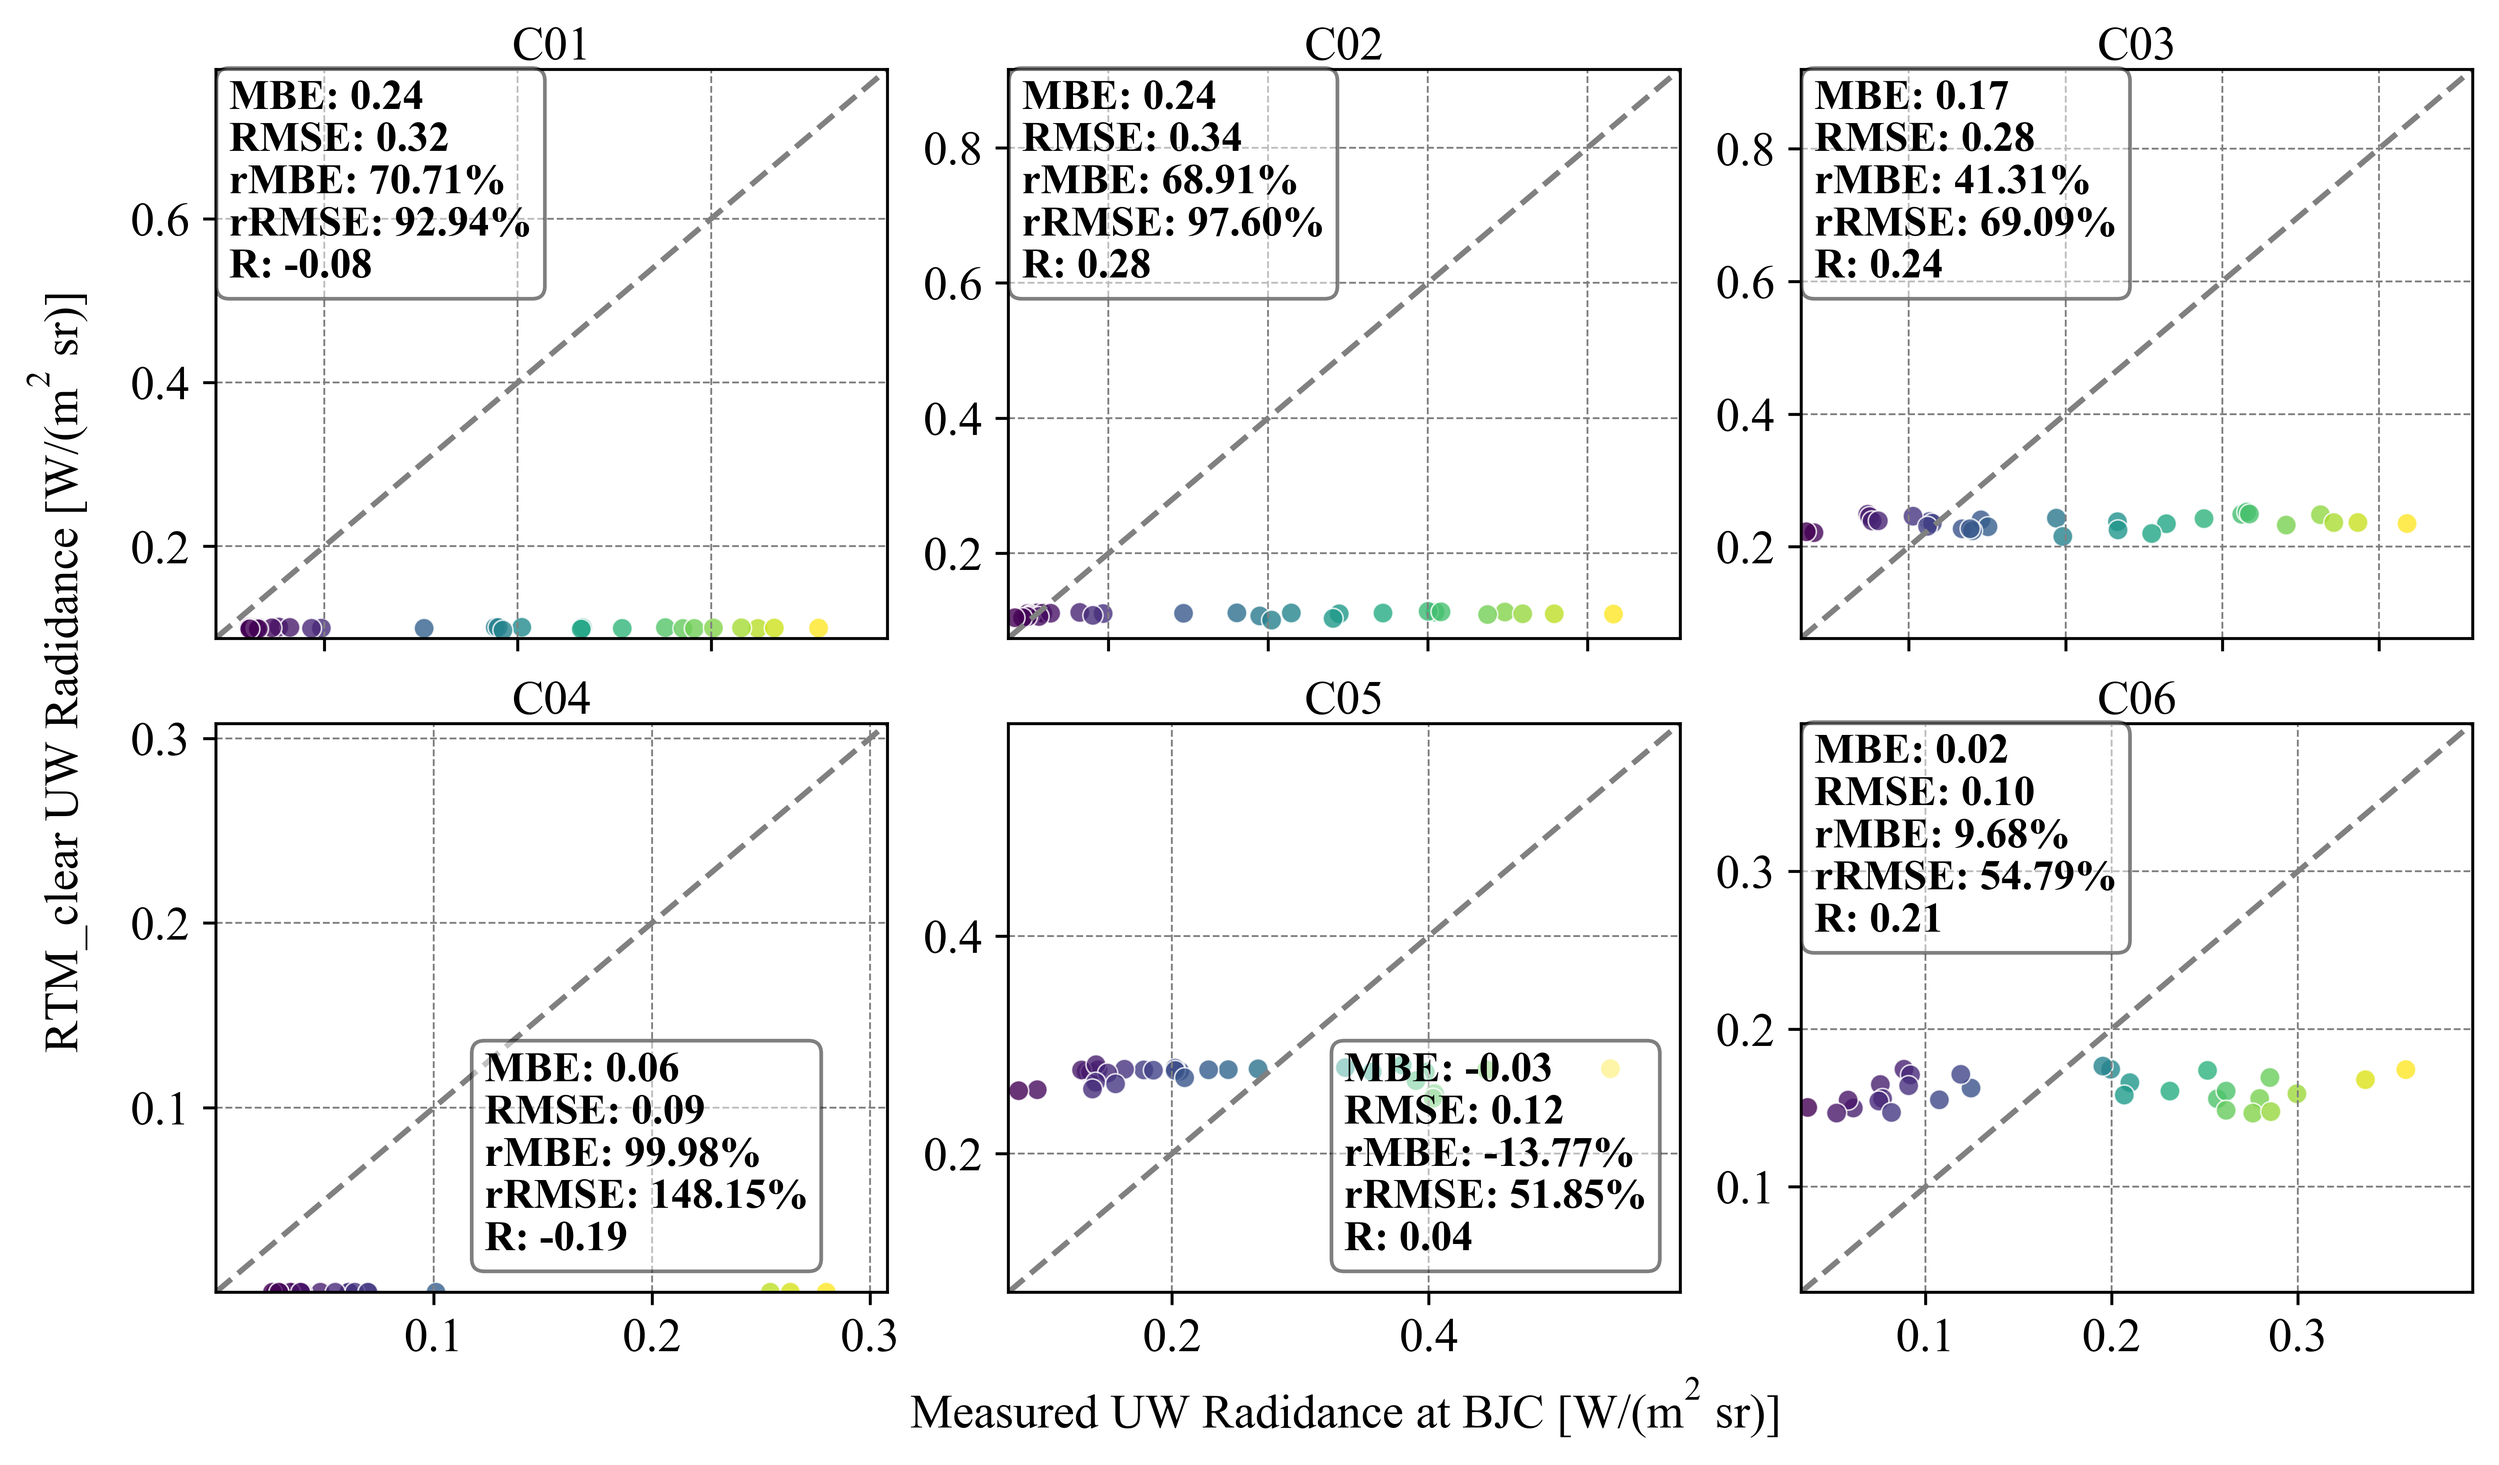
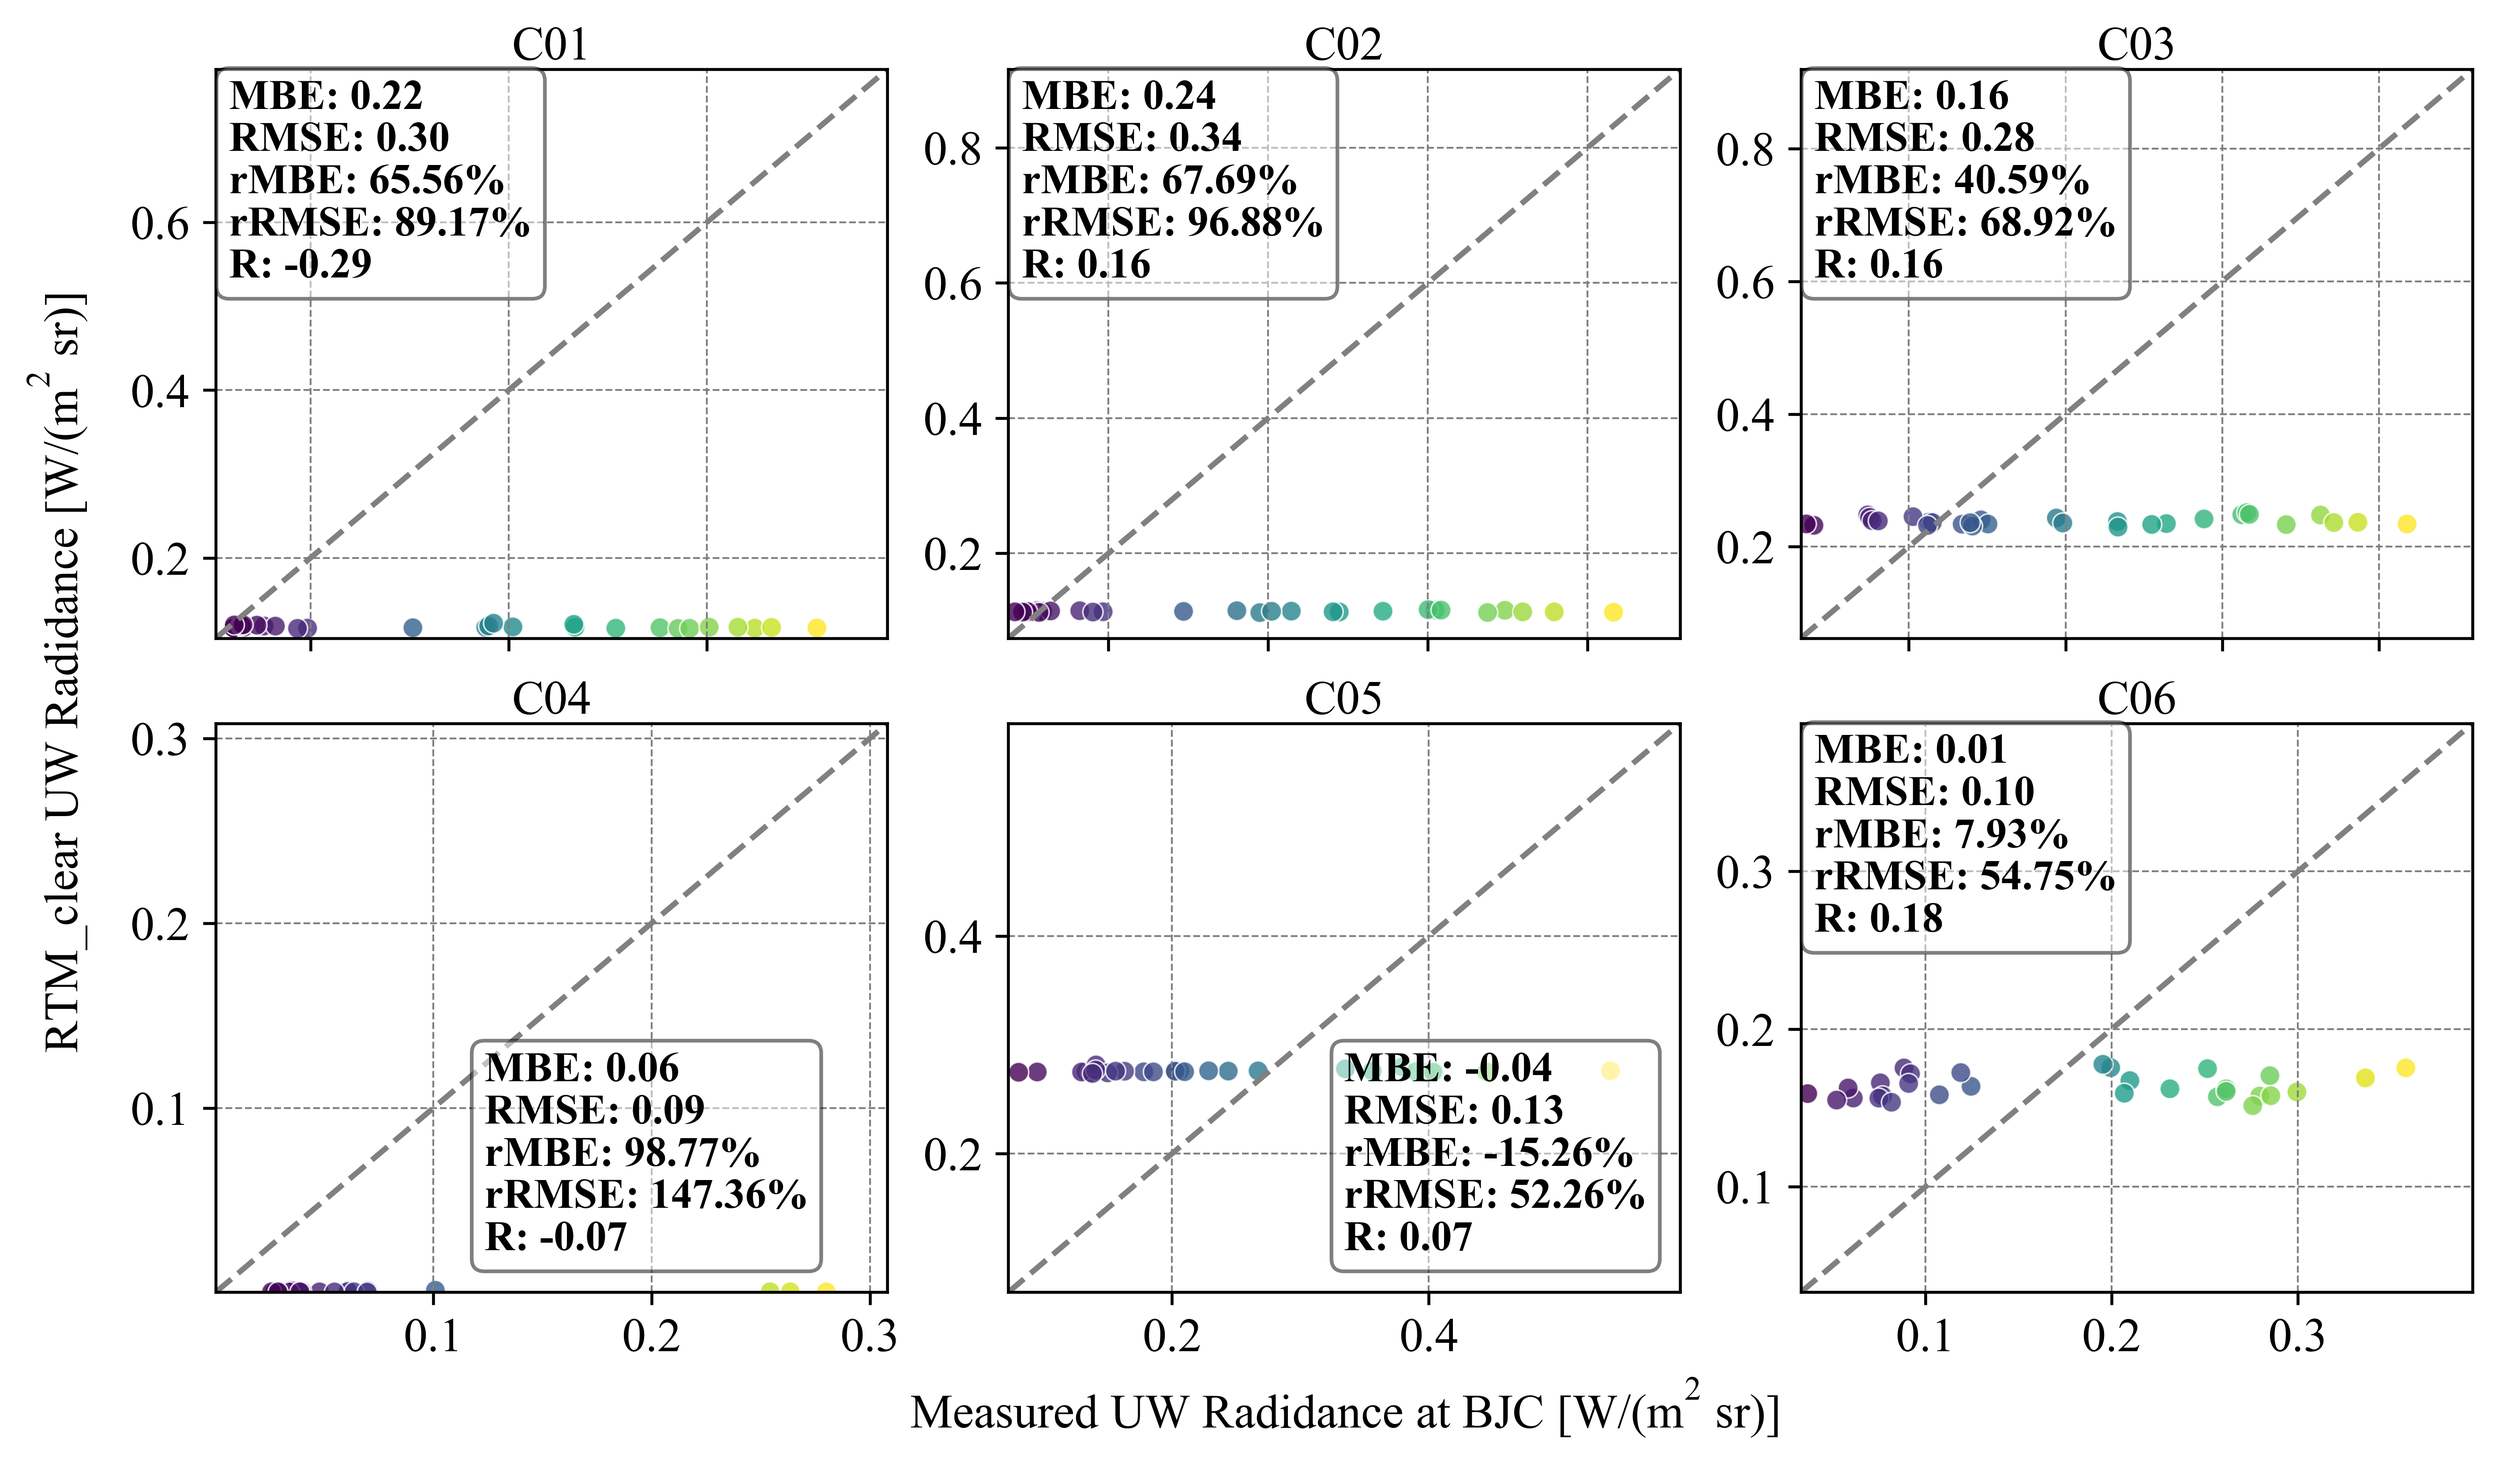
update

diff --git a/fun_nearealtime_RTM.py b/fun_nearealtime_RTM.py
@@ -101,15 +101,19 @@ def LUT(uw, COD, target_zenith, local_zen, rela_azi, file_dir='./FY4A_data/'):
     for i, channel in enumerate(channels):
         # load calibration data : Spectral Response Func
         srf, nu_channel = get_calibration_srf(channel, file_dir)
-        theta_idx, phi_idx = find_bin_indices(local_zen, rela_azi, 'both')
-        U, S, VT = load_and_interpolate_whole(fdir + f'angular_dist_lut_COD={int(COD_)}.h5', channel, target_zenith)
-        H_r = reconstruct_hc(U, S, VT)
+        # theta_idx, phi_idx = find_bin_indices(local_zen, rela_azi, 'both')
+        # U, S, VT = load_and_interpolate_whole(fdir + f'angular_dist_lut_COD={int(COD_)}.h5', channel, target_zenith)
+        # H_r = reconstruct_hc(U, S, VT)
         nu_idx = np.nonzero(np.isin(nu0, nu_channel))[0]
         uw_cor = np.multiply(uw[nu_idx], srf)
         uw_channel = np.trapz(uw_cor, nu_channel)#/F_dw_os_srf_channel[i]
-        df.loc[0, channel] = uw_channel/np.pi #* H_r[theta_idx, phi_idx] # W/m2/sr radiance    #/np.pi #
-        rho_band = uw_channel/(mu0* F_dw_os_srf_channel)
-    return df, Fuw, rho_band
+        
+        rho_band = uw_channel/(mu0* F_dw_os_srf_channel[i])
+        #L_band = (mu0 / np.pi* rho_band* (np.trapz(E0_lam * srf, wl) / np.trapz(srf, wl)))
+
+        df.loc[0, channel] = rho_band #* H_r[theta_idx, phi_idx] # W/m2/sr radiance    #/np.pi #
+        
+    return df, Fuw
 
 def LUT_wl(Flux_nu, COD, target_zenith, local_zen, rela_azi, file_dir='./FY4A_data/'):
     '''

diff --git a/main_SW_scope_nearealtime.py b/main_SW_scope_nearealtime.py
@@ -419,7 +419,6 @@ def compare_clear_dsw(site, sourcefile, meth='HG', sky="clear", file_dir=None, f
                #f"BJC_radiance_satellite_clear.csv"
 
     rtm_dsw, rtm_dni, rtm_dhi, rtm_uw = [], [], [], []
-    rho = []
     uw_channels_list = []
     channels = ['C01', 'C02', 'C03', 'C04', 'C05', 'C06']
     rtm_channels = [c + '_rtm' for c in channels]
@@ -455,12 +454,11 @@ def compare_clear_dsw(site, sourcefile, meth='HG', sky="clear", file_dir=None, f
                 if T_a <200:
                     T_a = T_a + 273.15 # to K
                 dsw, dni, dhi, uw = get_RTM_dsw(Sun_Zen, COD_goes, T_a, RH, meth, AOD)
-                df_uw_channels, F_uw, rho = LUT(uw, COD_goes, Sun_Zen, local_zen, rela_azi)
+                df_uw_channels, F_uw = LUT(uw, COD_goes, Sun_Zen, local_zen, rela_azi)
             rtm_dsw.append(dsw)
             rtm_dni.append(dni)
             rtm_dhi.append(dhi)
             rtm_uw.append(F_uw)
-            rho.append(rho)
 
             uw_channels_list.append(df_uw_channels)
 
